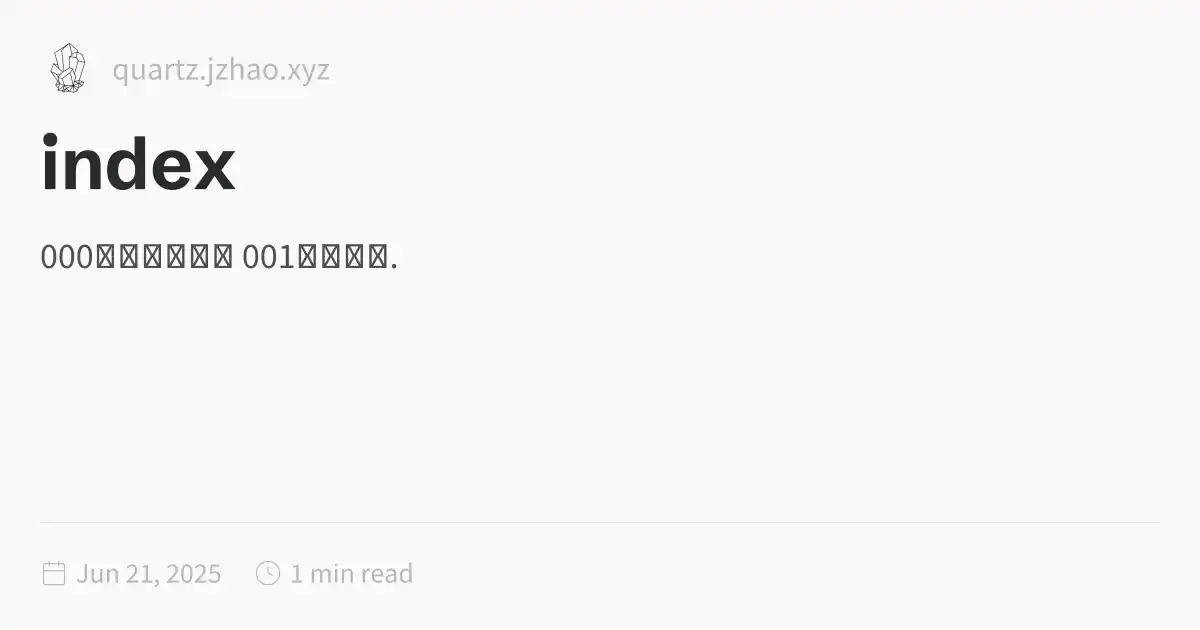
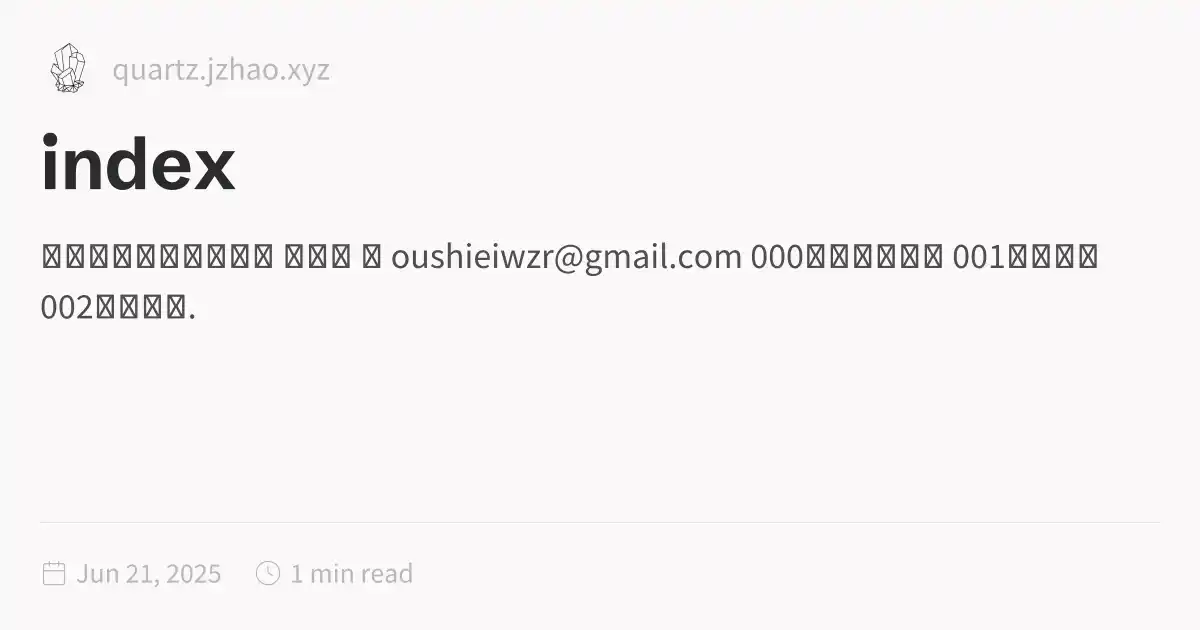
自动构建并同步到 docs: 2025-06-21 22:21:05

Changed region(s): [[0.0308, 0.3619, 0.925, 0.4524], [0.0308, 0.4524, 0.1542, 0.5127]]

diff --git a/docs/index.html b/docs/index.html
@@ -1,5 +1,5 @@
 <!DOCTYPE html>
-<html lang="en"><head><title>index</title><meta charset="utf-8"/><link rel="preconnect" href="https://fonts.googleapis.com"/><link rel="preconnect" href="https://fonts.gstatic.com"/><link rel="stylesheet" href="https://fonts.googleapis.com/css2?family=Schibsted Grotesk:wght@400;700&amp;family=Source Sans Pro:ital,wght@0,400;0,600;1,400;1,600&amp;family=IBM Plex Mono:wght@400;600&amp;display=swap"/><link rel="preconnect" href="https://cdnjs.cloudflare.com" crossorigin="anonymous"/><meta name="viewport" content="width=device-width, initial-scale=1.0"/><meta name="og:site_name" content="Quartz 4"/><meta property="og:title" content="index"/><meta property="og:type" content="website"/><meta name="twitter:card" content="summary_large_image"/><meta name="twitter:title" content="index"/><meta name="twitter:description" content="000プロフィール 001研究業績."/><meta property="og:description" content="000プロフィール 001研究業績."/><meta property="og:image:alt" content="000プロフィール 001研究業績."/><meta property="twitter:domain" content="quartz.jzhao.xyz"/><meta property="og:url" content="https://quartz.jzhao.xyz/index"/><meta property="twitter:url" content="https://quartz.jzhao.xyz/index"/><link rel="icon" href="./static/icon.png"/><meta name="description" content="000プロフィール 001研究業績."/><meta name="generator" content="Quartz"/><link href="./index.css" rel="stylesheet" type="text/css" spa-preserve/><style>.expand-button {
+<html lang="en"><head><title>index</title><meta charset="utf-8"/><link rel="preconnect" href="https://fonts.googleapis.com"/><link rel="preconnect" href="https://fonts.gstatic.com"/><link rel="stylesheet" href="https://fonts.googleapis.com/css2?family=Schibsted Grotesk:wght@400;700&amp;family=Source Sans Pro:ital,wght@0,400;0,600;1,400;1,600&amp;family=IBM Plex Mono:wght@400;600&amp;display=swap"/><link rel="preconnect" href="https://cdnjs.cloudflare.com" crossorigin="anonymous"/><meta name="viewport" content="width=device-width, initial-scale=1.0"/><meta name="og:site_name" content="Quartz 4"/><meta property="og:title" content="index"/><meta property="og:type" content="website"/><meta name="twitter:card" content="summary_large_image"/><meta name="twitter:title" content="index"/><meta name="twitter:description" content="王子睿（オウシエイ） メール ： oushieiwzr@gmail.com 000プロフィール 001研究業績 002口頭発表."/><meta property="og:description" content="王子睿（オウシエイ） メール ： oushieiwzr@gmail.com 000プロフィール 001研究業績 002口頭発表."/><meta property="og:image:alt" content="王子睿（オウシエイ） メール ： oushieiwzr@gmail.com 000プロフィール 001研究業績 002口頭発表."/><meta property="twitter:domain" content="quartz.jzhao.xyz"/><meta property="og:url" content="https://quartz.jzhao.xyz/index"/><meta property="twitter:url" content="https://quartz.jzhao.xyz/index"/><link rel="icon" href="./static/icon.png"/><meta name="description" content="王子睿（オウシエイ） メール ： oushieiwzr@gmail.com 000プロフィール 001研究業績 002口頭発表."/><meta name="generator" content="Quartz"/><link href="./index.css" rel="stylesheet" type="text/css" spa-preserve/><style>.expand-button {
   position: absolute;
   display: flex;
   float: right;
@@ -116,8 +116,11 @@ pre:hover > .expand-button {
   padding: 0 12px;
   font-size: 14px;
 }
[1 lines of base64/hex data omitted]
-<p><a href="./001研究業績" class="internal alias" data-slug="001研究業績">001研究業績</a></p></article><hr/><div class="page-footer"></div></div><div class="right sidebar"><div class="graph"><h3>Graph View</h3><div class="graph-outer"><div class="graph-container" data-cfg="{&quot;drag&quot;:true,&quot;zoom&quot;:true,&quot;depth&quot;:1,&quot;scale&quot;:1.1,&quot;repelForce&quot;:0.5,&quot;centerForce&quot;:0.3,&quot;linkDistance&quot;:30,&quot;fontSize&quot;:0.6,&quot;opacityScale&quot;:1,&quot;showTags&quot;:true,&quot;removeTags&quot;:[],&quot;focusOnHover&quot;:false,&quot;enableRadial&quot;:false}"></div><button class="global-graph-icon" aria-label="Global Graph"><svg version="1.1" xmlns="http://www.w3.org/2000/svg" xmlns:xlink="http://www.w3.org/1999/xlink" x="0px" y="0px" viewBox="0 0 55 55" fill="currentColor" xml:space="preserve"><path d="M49,0c-3.309,0-6,2.691-6,6c0,1.035,0.263,2.009,0.726,2.86l-9.829,9.829C32.542,17.634,30.846,17,29,17
[1 lines of base64/hex data omitted]
+メール ： <a href="mailto:oushieiwzr@gmail.com" class="external">oushieiwzr@gmail.com<svg aria-hidden="true" class="external-icon" style="max-width:0.8em;max-height:0.8em;" viewBox="0 0 512 512"><path d="M320 0H288V64h32 82.7L201.4 265.4 178.7 288 224 333.3l22.6-22.6L448 109.3V192v32h64V192 32 0H480 320zM32 32H0V64 480v32H32 456h32V480 352 320H424v32 96H64V96h96 32V32H160 32z"></path></svg></a></p>
+<h2 id="000プロフィール"><a href="./000プロフィール" class="internal alias" data-slug="000プロフィール">000プロフィール</a><a role="anchor" aria-hidden="true" tabindex="-1" data-no-popover="true" href="#000プロフィール" class="internal"><svg width="18" height="18" viewBox="0 0 24 24" fill="none" stroke="currentColor" stroke-width="2" stroke-linecap="round" stroke-linejoin="round"><path d="M10 13a5 5 0 0 0 7.54.54l3-3a5 5 0 0 0-7.07-7.07l-1.72 1.71"></path><path d="M14 11a5 5 0 0 0-7.54-.54l-3 3a5 5 0 0 0 7.07 7.07l1.71-1.71"></path></svg></a></h2>
+<h3 id="001研究業績"><a href="./001研究業績" class="internal alias" data-slug="001研究業績">001研究業績</a><a role="anchor" aria-hidden="true" tabindex="-1" data-no-popover="true" href="#001研究業績" class="internal"><svg width="18" height="18" viewBox="0 0 24 24" fill="none" stroke="currentColor" stroke-width="2" stroke-linecap="round" stroke-linejoin="round"><path d="M10 13a5 5 0 0 0 7.54.54l3-3a5 5 0 0 0-7.07-7.07l-1.72 1.71"></path><path d="M14 11a5 5 0 0 0-7.54-.54l-3 3a5 5 0 0 0 7.07 7.07l1.71-1.71"></path></svg></a></h3>
+<h3 id="002口頭発表"><a href="./002口頭発表" class="internal alias" data-slug="002口頭発表">002口頭発表</a><a role="anchor" aria-hidden="true" tabindex="-1" data-no-popover="true" href="#002口頭発表" class="internal"><svg width="18" height="18" viewBox="0 0 24 24" fill="none" stroke="currentColor" stroke-width="2" stroke-linecap="round" stroke-linejoin="round"><path d="M10 13a5 5 0 0 0 7.54.54l3-3a5 5 0 0 0-7.07-7.07l-1.72 1.71"></path><path d="M14 11a5 5 0 0 0-7.54-.54l-3 3a5 5 0 0 0 7.07 7.07l1.71-1.71"></path></svg></a></h3></article><hr/><div class="page-footer"></div></div><div class="right sidebar"><div class="graph"><h3>Graph View</h3><div class="graph-outer"><div class="graph-container" data-cfg="{&quot;drag&quot;:true,&quot;zoom&quot;:true,&quot;depth&quot;:1,&quot;scale&quot;:1.1,&quot;repelForce&quot;:0.5,&quot;centerForce&quot;:0.3,&quot;linkDistance&quot;:30,&quot;fontSize&quot;:0.6,&quot;opacityScale&quot;:1,&quot;showTags&quot;:true,&quot;removeTags&quot;:[],&quot;focusOnHover&quot;:false,&quot;enableRadial&quot;:false}"></div><button class="global-graph-icon" aria-label="Global Graph"><svg version="1.1" xmlns="http://www.w3.org/2000/svg" xmlns:xlink="http://www.w3.org/1999/xlink" x="0px" y="0px" viewBox="0 0 55 55" fill="currentColor" xml:space="preserve"><path d="M49,0c-3.309,0-6,2.691-6,6c0,1.035,0.263,2.009,0.726,2.86l-9.829,9.829C32.542,17.634,30.846,17,29,17
                 s-3.542,0.634-4.898,1.688l-7.669-7.669C16.785,10.424,17,9.74,17,9c0-2.206-1.794-4-4-4S9,6.794,9,9s1.794,4,4,4
                 c0.74,0,1.424-0.215,2.019-0.567l7.669,7.669C21.634,21.458,21,23.154,21,25s0.634,3.542,1.688,4.897L10.024,42.562
                 C8.958,41.595,7.549,41,6,41c-3.309,0-6,2.691-6,6s2.691,6,6,6s6-2.691,6-6c0-1.035-0.263-2.009-0.726-2.86l12.829-12.829
@@ -127,6 +130,6 @@ pre:hover > .expand-button {
                 C46.042,11.405,47.451,12,49,12c3.309,0,6-2.691,6-6S52.309,0,49,0z M11,9c0-1.103,0.897-2,2-2s2,0.897,2,2s-0.897,2-2,2
                 S11,10.103,11,9z M6,51c-2.206,0-4-1.794-4-4s1.794-4,4-4s4,1.794,4,4S8.206,51,6,51z M33,49c0,2.206-1.794,4-4,4s-4-1.794-4-4
                 s1.794-4,4-4S33,46.794,33,49z M29,31c-3.309,0-6-2.691-6-6s2.691-6,6-6s6,2.691,6,6S32.309,31,29,31z M47,41c0,1.103-0.897,2-2,2
-                s-2-0.897-2-2s0.897-2,2-2S47,39.897,47,41z M49,10c-2.206,0-4-1.794-4-4s1.794-4,4-4s4,1.794,4,4S51.206,10,49,10z"></path></svg></button></div><div class="global-graph-outer"><div class="global-graph-container" data-cfg="{&quot;drag&quot;:true,&quot;zoom&quot;:true,&quot;depth&quot;:-1,&quot;scale&quot;:0.9,&quot;repelForce&quot;:0.5,&quot;centerForce&quot;:0.2,&quot;linkDistance&quot;:30,&quot;fontSize&quot;:0.6,&quot;opacityScale&quot;:1,&quot;showTags&quot;:true,&quot;removeTags&quot;:[],&quot;focusOnHover&quot;:true,&quot;enableRadial&quot;:true}"></div></div></div></div><footer class><p>Created with <a href="https://quartz.jzhao.xyz/">Quartz v4.5.1</a> © 2025</p><ul><li><a href="https://github.com/jackyzha0/quartz">GitHub</a></li><li><a href="https://discord.gg/cRFFHYye7t">Discord Community</a></li></ul></footer></div></div></body><script type="application/javascript">function n(){let t=this.parentElement;t.classList.toggle("is-collapsed");let e=t.getElementsByClassName("callout-content")[0];if(!e)return;let l=t.classList.contains("is-collapsed");e.style.gridTemplateRows=l?"0fr":"1fr"}function c(){let t=document.getElementsByClassName("callout is-collapsible");for(let e of t){let l=e.getElementsByClassName("callout-title")[0],s=e.getElementsByClassName("callout-content")[0];if(!l||!s)continue;l.addEventListener("click",n),window.addCleanup(()=>l.removeEventListener("click",n));let o=e.classList.contains("is-collapsed");s.style.gridTemplateRows=o?"0fr":"1fr"}}document.addEventListener("nav",c);
+                s-2-0.897-2-2s0.897-2,2-2S47,39.897,47,41z M49,10c-2.206,0-4-1.794-4-4s1.794-4,4-4s4,1.794,4,4S51.206,10,49,10z"></path></svg></button></div><div class="global-graph-outer"><div class="global-graph-container" data-cfg="{&quot;drag&quot;:true,&quot;zoom&quot;:true,&quot;depth&quot;:-1,&quot;scale&quot;:0.9,&quot;repelForce&quot;:0.5,&quot;centerForce&quot;:0.2,&quot;linkDistance&quot;:30,&quot;fontSize&quot;:0.6,&quot;opacityScale&quot;:1,&quot;showTags&quot;:true,&quot;removeTags&quot;:[],&quot;focusOnHover&quot;:true,&quot;enableRadial&quot;:true}"></div></div></div><div class="toc desktop-only"><button type="button" class="toc-header" aria-controls="toc-content" aria-expanded="true"><h3>Table of Contents</h3><svg xmlns="http://www.w3.org/2000/svg" width="24" height="24" viewBox="0 0 24 24" fill="none" stroke="currentColor" stroke-width="2" stroke-linecap="round" stroke-linejoin="round" class="fold"><polyline points="6 9 12 15 18 9"></polyline></svg></button><ul class="toc-content overflow" id="list-1"><li class="depth-0"><a href="#000プロフィール" data-for="000プロフィール">000プロフィール</a></li><li class="depth-1"><a href="#001研究業績" data-for="001研究業績">001研究業績</a></li><li class="depth-1"><a href="#002口頭発表" data-for="002口頭発表">002口頭発表</a></li><li class="overflow-end"></li></ul></div></div><footer class><p>Created with <a href="https://quartz.jzhao.xyz/">Quartz v4.5.1</a> © 2025</p><ul><li><a href="https://github.com/jackyzha0/quartz">GitHub</a></li><li><a href="https://discord.gg/cRFFHYye7t">Discord Community</a></li></ul></footer></div></div></body><script type="application/javascript">function n(){let t=this.parentElement;t.classList.toggle("is-collapsed");let e=t.getElementsByClassName("callout-content")[0];if(!e)return;let l=t.classList.contains("is-collapsed");e.style.gridTemplateRows=l?"0fr":"1fr"}function c(){let t=document.getElementsByClassName("callout is-collapsible");for(let e of t){let l=e.getElementsByClassName("callout-title")[0],s=e.getElementsByClassName("callout-content")[0];if(!l||!s)continue;l.addEventListener("click",n),window.addCleanup(()=>l.removeEventListener("click",n));let o=e.classList.contains("is-collapsed");s.style.gridTemplateRows=o?"0fr":"1fr"}}document.addEventListener("nav",c);
 </script><script type="module">function f(i,e){if(!i)return;function r(o){o.target===this&&(o.preventDefault(),o.stopPropagation(),e())}function t(o){o.key.startsWith("Esc")&&(o.preventDefault(),e())}i?.addEventListener("click",r),window.addCleanup(()=>i?.removeEventListener("click",r)),document.addEventListener("keydown",t),window.addCleanup(()=>document.removeEventListener("keydown",t))}function y(i){for(;i.firstChild;)i.removeChild(i.firstChild)}var h=class{constructor(e,r){this.container=e;this.content=r;this.setupEventListeners(),this.setupNavigationControls(),this.resetTransform()}isDragging=!1;startPan={x:0,y:0};currentPan={x:0,y:0};scale=1;MIN_SCALE=.5;MAX_SCALE=3;cleanups=[];setupEventListeners(){let e=this.onMouseDown.bind(this),r=this.onMouseMove.bind(this),t=this.onMouseUp.bind(this),o=this.resetTransform.bind(this);this.container.addEventListener("mousedown",e),document.addEventListener("mousemove",r),document.addEventListener("mouseup",t),window.addEventListener("resize",o),this.cleanups.push(()=>this.container.removeEventListener("mousedown",e),()=>document.removeEventListener("mousemove",r),()=>document.removeEventListener("mouseup",t),()=>window.removeEventListener("resize",o))}cleanup(){for(let e of this.cleanups)e()}setupNavigationControls(){let e=document.createElement("div");e.className="mermaid-controls";let r=this.createButton("+",()=>this.zoom(.1)),t=this.createButton("-",()=>this.zoom(-.1)),o=this.createButton("Reset",()=>this.resetTransform());e.appendChild(t),e.appendChild(o),e.appendChild(r),this.container.appendChild(e)}createButton(e,r){let t=document.createElement("button");return t.textContent=e,t.className="mermaid-control-button",t.addEventListener("click",r),window.addCleanup(()=>t.removeEventListener("click",r)),t}onMouseDown(e){e.button===0&&(this.isDragging=!0,this.startPan={x:e.clientX-this.currentPan.x,y:e.clientY-this.currentPan.y},this.container.style.cursor="grabbing")}onMouseMove(e){this.isDragging&&(e.preventDefault(),this.currentPan={x:e.clientX-this.startPan.x,y:e.clientY-this.startPan.y},this.updateTransform())}onMouseUp(){this.isDragging=!1,this.container.style.cursor="grab"}zoom(e){let r=Math.min(Math.max(this.scale+e,this.MIN_SCALE),this.MAX_SCALE),t=this.content.getBoundingClientRect(),o=t.width/2,n=t.height/2,c=r-this.scale;this.currentPan.x-=o*c,this.currentPan.y-=n*c,this.scale=r,this.updateTransform()}updateTransform(){this.content.style.transform=`translate(${this.currentPan.x}px, ${this.currentPan.y}px) scale(${this.scale})`}resetTransform(){this.scale=1;let e=this.content.querySelector("svg");this.currentPan={x:e.getBoundingClientRect().width/2,y:e.getBoundingClientRect().height/2},this.updateTransform()}},C=["--secondary","--tertiary","--gray","--light","--lightgray","--highlight","--dark","--darkgray","--codeFont"],E;document.addEventListener("nav",async()=>{let e=document.querySelector(".center").querySelectorAll("code.mermaid");if(e.length===0)return;E||=await import("https://cdnjs.cloudflare.com/ajax/libs/mermaid/11.4.0/mermaid.esm.min.mjs");let r=E.default,t=new WeakMap;for(let n of e)t.set(n,n.innerText);async function o(){for(let s of e){s.removeAttribute("data-processed");let a=t.get(s);a&&(s.innerHTML=a)}let n=C.reduce((s,a)=>(s[a]=window.getComputedStyle(document.documentElement).getPropertyValue(a),s),{}),c=document.documentElement.getAttribute("saved-theme")==="dark";r.initialize({startOnLoad:!1,securityLevel:"loose",theme:c?"dark":"base",themeVariables:{fontFamily:n["--codeFont"],primaryColor:n["--light"],primaryTextColor:n["--darkgray"],primaryBorderColor:n["--tertiary"],lineColor:n["--darkgray"],secondaryColor:n["--secondary"],tertiaryColor:n["--tertiary"],clusterBkg:n["--light"],edgeLabelBackground:n["--highlight"]}}),await r.run({nodes:e})}await o(),document.addEventListener("themechange",o),window.addCleanup(()=>document.removeEventListener("themechange",o));for(let n=0;n<e.length;n++){let v=function(){let g=l.querySelector("#mermaid-space"),m=l.querySelector(".mermaid-content");if(!m)return;y(m);let w=c.querySelector("svg").cloneNode(!0);m.appendChild(w),l.classList.add("active"),g.style.cursor="grab",u=new h(g,m)},M=function(){l.classList.remove("active"),u?.cleanup(),u=null},c=e[n],s=c.parentElement,a=s.querySelector(".clipboard-button"),d=s.querySelector(".expand-button"),p=window.getComputedStyle(a),L=a.offsetWidth+parseFloat(p.marginLeft||"0")+parseFloat(p.marginRight||"0");d.style.right=`calc(${L}px + 0.3rem)`,s.prepend(d);let l=s.querySelector("#mermaid-container");if(!l)return;let u=null;d.addEventListener("click",v),f(l,M),window.addCleanup(()=>{u?.cleanup(),d.removeEventListener("click",v)})}});
 </script><script src="https://cdn.jsdelivr.net/npm/katex@0.16.11/dist/contrib/copy-tex.min.js" type="application/javascript"></script><script src="./postscript.js" type="module"></script></html>

diff --git a/docs/000プロフィール.html b/docs/000プロフィール.html
@@ -1,5 +1,5 @@
 <!DOCTYPE html>
-<html lang="en"><head><title>000プロフィール</title><meta charset="utf-8"/><link rel="preconnect" href="https://fonts.googleapis.com"/><link rel="preconnect" href="https://fonts.gstatic.com"/><link rel="stylesheet" href="https://fonts.googleapis.com/css2?family=Schibsted Grotesk:wght@400;700&amp;family=Source Sans Pro:ital,wght@0,400;0,600;1,400;1,600&amp;family=IBM Plex Mono:wght@400;600&amp;display=swap"/><link rel="preconnect" href="https://cdnjs.cloudflare.com" crossorigin="anonymous"/><meta name="viewport" content="width=device-width, initial-scale=1.0"/><meta name="og:site_name" content="Quartz 4"/><meta property="og:title" content="000プロフィール"/><meta property="og:type" content="website"/><meta name="twitter:card" content="summary_large_image"/><meta name="twitter:title" content="000プロフィール"/><meta name="twitter:description" content="履歴 PDを目指している 現在、北京語言大学の博士課程に在学中(2026)。 広西大学修士課程修了 (~2023) 博論 博論は『紅楼夢』の日本語訳に関する既存の人文学の知見を中心に計量文体学の手法で再検証・新しい示唆を与えようとするものである。 研究分野 コーパス学・ デジタルアーカイブとTEIの応用 非常勤歴 中国人民大学数字人文研究院 学生研究员（2024-2025）Student Researcher, Renmin University of China, Academy of Digital Humanities 日本デジタルヒューマニティーズの最新学術情報を中国に紹介・翻訳 北京..."/><meta property="og:description" content="履歴 PDを目指している 現在、北京語言大学の博士課程に在学中(2026)。 広西大学修士課程修了 (~2023) 博論 博論は『紅楼夢』の日本語訳に関する既存の人文学の知見を中心に計量文体学の手法で再検証・新しい示唆を与えようとするものである。 研究分野 コーパス学・ デジタルアーカイブとTEIの応用 非常勤歴 中国人民大学数字人文研究院 学生研究员（2024-2025）Student Researcher, Renmin University of China, Academy of Digital Humanities 日本デジタルヒューマニティーズの最新学術情報を中国に紹介・翻訳 北京..."/><meta property="og:image:alt" content="履歴 PDを目指している 現在、北京語言大学の博士課程に在学中(2026)。 広西大学修士課程修了 (~2023) 博論 博論は『紅楼夢』の日本語訳に関する既存の人文学の知見を中心に計量文体学の手法で再検証・新しい示唆を与えようとするものである。 研究分野 コーパス学・ デジタルアーカイブとTEIの応用 非常勤歴 中国人民大学数字人文研究院 学生研究员（2024-2025）Student Researcher, Renmin University of China, Academy of Digital Humanities 日本デジタルヒューマニティーズの最新学術情報を中国に紹介・翻訳 北京..."/><meta property="twitter:domain" content="quartz.jzhao.xyz"/><meta property="og:url" content="https://quartz.jzhao.xyz/000プロフィール"/><meta property="twitter:url" content="https://quartz.jzhao.xyz/000プロフィール"/><link rel="icon" href="./static/icon.png"/><meta name="description" content="履歴 PDを目指している 現在、北京語言大学の博士課程に在学中(2026)。 広西大学修士課程修了 (~2023) 博論 博論は『紅楼夢』の日本語訳に関する既存の人文学の知見を中心に計量文体学の手法で再検証・新しい示唆を与えようとするものである。 研究分野 コーパス学・ デジタルアーカイブとTEIの応用 非常勤歴 中国人民大学数字人文研究院 学生研究员（2024-2025）Student Researcher, Renmin University of China, Academy of Digital Humanities 日本デジタルヒューマニティーズの最新学術情報を中国に紹介・翻訳 北京..."/><meta name="generator" content="Quartz"/><link href="./index.css" rel="stylesheet" type="text/css" spa-preserve/><style>.expand-button {
+<html lang="en"><head><title>000プロフィール</title><meta charset="utf-8"/><link rel="preconnect" href="https://fonts.googleapis.com"/><link rel="preconnect" href="https://fonts.gstatic.com"/><link rel="stylesheet" href="https://fonts.googleapis.com/css2?family=Schibsted Grotesk:wght@400;700&amp;family=Source Sans Pro:ital,wght@0,400;0,600;1,400;1,600&amp;family=IBM Plex Mono:wght@400;600&amp;display=swap"/><link rel="preconnect" href="https://cdnjs.cloudflare.com" crossorigin="anonymous"/><meta name="viewport" content="width=device-width, initial-scale=1.0"/><meta name="og:site_name" content="Quartz 4"/><meta property="og:title" content="000プロフィール"/><meta property="og:type" content="website"/><meta name="twitter:card" content="summary_large_image"/><meta name="twitter:title" content="000プロフィール"/><meta name="twitter:description" content="履歴 PDを目指している 現在、北京語言大学の博士課程に在学中(2026)。 広西大学修士課程修了 (~2023) 博論 博論は『紅楼夢』の日本語訳に関する既存の人文学の知見を中心に計量文体学の手法で再検証・新しい示唆を与えようとするものである。 研究分野 コーパス学・ デジタルアーカイブとTEIの応用 R言語による人文学研究の定量分析・可視化 非常勤歴 中国人民大学数字人文研究院 学生研究员（2024-2025）Student Researcher, Renmin University of China, Academy of Digital Humanities 日本デジタルヒューマニティ..."/><meta property="og:description" content="履歴 PDを目指している 現在、北京語言大学の博士課程に在学中(2026)。 広西大学修士課程修了 (~2023) 博論 博論は『紅楼夢』の日本語訳に関する既存の人文学の知見を中心に計量文体学の手法で再検証・新しい示唆を与えようとするものである。 研究分野 コーパス学・ デジタルアーカイブとTEIの応用 R言語による人文学研究の定量分析・可視化 非常勤歴 中国人民大学数字人文研究院 学生研究员（2024-2025）Student Researcher, Renmin University of China, Academy of Digital Humanities 日本デジタルヒューマニティ..."/><meta property="og:image:alt" content="履歴 PDを目指している 現在、北京語言大学の博士課程に在学中(2026)。 広西大学修士課程修了 (~2023) 博論 博論は『紅楼夢』の日本語訳に関する既存の人文学の知見を中心に計量文体学の手法で再検証・新しい示唆を与えようとするものである。 研究分野 コーパス学・ デジタルアーカイブとTEIの応用 R言語による人文学研究の定量分析・可視化 非常勤歴 中国人民大学数字人文研究院 学生研究员（2024-2025）Student Researcher, Renmin University of China, Academy of Digital Humanities 日本デジタルヒューマニティ..."/><meta property="twitter:domain" content="quartz.jzhao.xyz"/><meta property="og:url" content="https://quartz.jzhao.xyz/000プロフィール"/><meta property="twitter:url" content="https://quartz.jzhao.xyz/000プロフィール"/><link rel="icon" href="./static/icon.png"/><meta name="description" content="履歴 PDを目指している 現在、北京語言大学の博士課程に在学中(2026)。 広西大学修士課程修了 (~2023) 博論 博論は『紅楼夢』の日本語訳に関する既存の人文学の知見を中心に計量文体学の手法で再検証・新しい示唆を与えようとするものである。 研究分野 コーパス学・ デジタルアーカイブとTEIの応用 R言語による人文学研究の定量分析・可視化 非常勤歴 中国人民大学数字人文研究院 学生研究员（2024-2025）Student Researcher, Renmin University of China, Academy of Digital Humanities 日本デジタルヒューマニティ..."/><meta name="generator" content="Quartz"/><link href="./index.css" rel="stylesheet" type="text/css" spa-preserve/><style>.expand-button {
   position: absolute;
   display: flex;
   float: right;
@@ -116,7 +116,7 @@ pre:hover > .expand-button {
   padding: 0 12px;
   font-size: 14px;
 }
[2 lines of base64/hex data omitted]
 <ul>
 <li>PDを目指している</li>
 <li>現在、<strong>北京語言大学の博士課程に在学中(2026)。</strong></li>
@@ -126,10 +126,9 @@ pre:hover > .expand-button {
 <p>博論は『紅楼夢』の日本語訳に関する既存の人文学の知見を中心に計量文体学の手法で再検証・新しい示唆を与えようとするものである。</p>
 <h2 id="研究分野">研究分野<a role="anchor" aria-hidden="true" tabindex="-1" data-no-popover="true" href="#研究分野" class="internal"><svg width="18" height="18" viewBox="0 0 24 24" fill="none" stroke="currentColor" stroke-width="2" stroke-linecap="round" stroke-linejoin="round"><path d="M10 13a5 5 0 0 0 7.54.54l3-3a5 5 0 0 0-7.07-7.07l-1.72 1.71"></path><path d="M14 11a5 5 0 0 0-7.54-.54l-3 3a5 5 0 0 0 7.07 7.07l1.71-1.71"></path></svg></a></h2>
 <ul>
-<li></li>
 <li>コーパス学・</li>
 <li>デジタルアーカイブとTEIの応用</li>
-<li></li>
+<li>R言語による人文学研究の定量分析・可視化</li>
 </ul>
 <h2 id="非常勤歴">非常勤歴<a role="anchor" aria-hidden="true" tabindex="-1" data-no-popover="true" href="#非常勤歴" class="internal"><svg width="18" height="18" viewBox="0 0 24 24" fill="none" stroke="currentColor" stroke-width="2" stroke-linecap="round" stroke-linejoin="round"><path d="M10 13a5 5 0 0 0 7.54.54l3-3a5 5 0 0 0-7.07-7.07l-1.72 1.71"></path><path d="M14 11a5 5 0 0 0-7.54-.54l-3 3a5 5 0 0 0 7.07 7.07l1.71-1.71"></path></svg></a></h2>
 <ul>

diff --git a/docs/001研究業績.html b/docs/001研究業績.html
@@ -116,7 +116,7 @@ pre:hover > .expand-button {
   padding: 0 12px;
   font-size: 14px;
 }
[2 lines of base64/hex data omitted]
 <p>知网（CNKI）に契約を結んでいる方は、<a href="https://kns.cnki.net/kcms2/author/detail?v=C4JADW50D8sqjoVJsImXjAXWcz9kMCKp6vwPz7eJCceZMhAt7zLSaUhL8rB-_icODcsy1D7Ze46XkVA8FAYWEyPTOQc8Fdp12-lFVzYet6YVKMvxDvP-6RrKAoYHIxlc&amp;uniplatform=NZKPT&amp;language=CHS" class="external">研究者ページ<svg aria-hidden="true" class="external-icon" style="max-width:0.8em;max-height:0.8em;" viewBox="0 0 512 512"><path d="M320 0H288V64h32 82.7L201.4 265.4 178.7 288 224 333.3l22.6-22.6L448 109.3V192v32h64V192 32 0H480 320zM32 32H0V64 480v32H32 456h32V480 352 320H424v32 96H64V96h96 32V32H160 32z"></path></svg></a>へお越しください。</p>
 <h2 id="執筆査読中">執筆査読中<a role="anchor" aria-hidden="true" tabindex="-1" data-no-popover="true" href="#執筆査読中" class="internal"><svg width="18" height="18" viewBox="0 0 24 24" fill="none" stroke="currentColor" stroke-width="2" stroke-linecap="round" stroke-linejoin="round"><path d="M10 13a5 5 0 0 0 7.54.54l3-3a5 5 0 0 0-7.07-7.07l-1.72 1.71"></path><path d="M14 11a5 5 0 0 0-7.54-.54l-3 3a5 5 0 0 0 7.07 7.07l1.71-1.71"></path></svg></a></h2>
 <ul>

diff --git a/docs/002口頭発表.html b/docs/002口頭発表.html
@@ -135,6 +135,6 @@ pre:hover > .expand-button {
                 C46.042,11.405,47.451,12,49,12c3.309,0,6-2.691,6-6S52.309,0,49,0z M11,9c0-1.103,0.897-2,2-2s2,0.897,2,2s-0.897,2-2,2
                 S11,10.103,11,9z M6,51c-2.206,0-4-1.794-4-4s1.794-4,4-4s4,1.794,4,4S8.206,51,6,51z M33,49c0,2.206-1.794,4-4,4s-4-1.794-4-4
                 s1.794-4,4-4S33,46.794,33,49z M29,31c-3.309,0-6-2.691-6-6s2.691-6,6-6s6,2.691,6,6S32.309,31,29,31z M47,41c0,1.103-0.897,2-2,2
-                s-2-0.897-2-2s0.897-2,2-2S47,39.897,47,41z M49,10c-2.206,0-4-1.794-4-4s1.794-4,4-4s4,1.794,4,4S51.206,10,49,10z"></path></svg></button></div><div class="global-graph-outer"><div class="global-graph-container" data-cfg="{&quot;drag&quot;:true,&quot;zoom&quot;:true,&quot;depth&quot;:-1,&quot;scale&quot;:0.9,&quot;repelForce&quot;:0.5,&quot;centerForce&quot;:0.2,&quot;linkDistance&quot;:30,&quot;fontSize&quot;:0.6,&quot;opacityScale&quot;:1,&quot;showTags&quot;:true,&quot;removeTags&quot;:[],&quot;focusOnHover&quot;:true,&quot;enableRadial&quot;:true}"></div></div></div><div class="toc desktop-only"><button type="button" class="toc-header" aria-controls="toc-content" aria-expanded="true"><h3>Table of Contents</h3><svg xmlns="http://www.w3.org/2000/svg" width="24" height="24" viewBox="0 0 24 24" fill="none" stroke="currentColor" stroke-width="2" stroke-linecap="round" stroke-linejoin="round" class="fold"><polyline points="6 9 12 15 18 9"></polyline></svg></button><ul class="toc-content overflow" id="list-1"><li class="depth-0"><a href="#2025年" data-for="2025年">2025年</a></li><li class="depth-0"><a href="#2024年" data-for="2024年">2024年</a></li><li class="overflow-end"></li></ul></div><div class="backlinks"><h3>Backlinks</h3><ul id="list-2" class="overflow"><li><a href="./000プロフィール" class="internal">000プロフィール</a></li><li class="overflow-end"></li></ul></div></div><footer class><p>Created with <a href="https://quartz.jzhao.xyz/">Quartz v4.5.1</a> © 2025</p><ul><li><a href="https://github.com/jackyzha0/quartz">GitHub</a></li><li><a href="https://discord.gg/cRFFHYye7t">Discord Community</a></li></ul></footer></div></div></body><script type="application/javascript">function n(){let t=this.parentElement;t.classList.toggle("is-collapsed");let e=t.getElementsByClassName("callout-content")[0];if(!e)return;let l=t.classList.contains("is-collapsed");e.style.gridTemplateRows=l?"0fr":"1fr"}function c(){let t=document.getElementsByClassName("callout is-collapsible");for(let e of t){let l=e.getElementsByClassName("callout-title")[0],s=e.getElementsByClassName("callout-content")[0];if(!l||!s)continue;l.addEventListener("click",n),window.addCleanup(()=>l.removeEventListener("click",n));let o=e.classList.contains("is-collapsed");s.style.gridTemplateRows=o?"0fr":"1fr"}}document.addEventListener("nav",c);
+                s-2-0.897-2-2s0.897-2,2-2S47,39.897,47,41z M49,10c-2.206,0-4-1.794-4-4s1.794-4,4-4s4,1.794,4,4S51.206,10,49,10z"></path></svg></button></div><div class="global-graph-outer"><div class="global-graph-container" data-cfg="{&quot;drag&quot;:true,&quot;zoom&quot;:true,&quot;depth&quot;:-1,&quot;scale&quot;:0.9,&quot;repelForce&quot;:0.5,&quot;centerForce&quot;:0.2,&quot;linkDistance&quot;:30,&quot;fontSize&quot;:0.6,&quot;opacityScale&quot;:1,&quot;showTags&quot;:true,&quot;removeTags&quot;:[],&quot;focusOnHover&quot;:true,&quot;enableRadial&quot;:true}"></div></div></div><div class="toc desktop-only"><button type="button" class="toc-header" aria-controls="toc-content" aria-expanded="true"><h3>Table of Contents</h3><svg xmlns="http://www.w3.org/2000/svg" width="24" height="24" viewBox="0 0 24 24" fill="none" stroke="currentColor" stroke-width="2" stroke-linecap="round" stroke-linejoin="round" class="fold"><polyline points="6 9 12 15 18 9"></polyline></svg></button><ul class="toc-content overflow" id="list-1"><li class="depth-0"><a href="#2025年" data-for="2025年">2025年</a></li><li class="depth-0"><a href="#2024年" data-for="2024年">2024年</a></li><li class="overflow-end"></li></ul></div><div class="backlinks"><h3>Backlinks</h3><ul id="list-2" class="overflow"><li><a href="./000プロフィール" class="internal">000プロフィール</a></li><li><a href="./" class="internal">index</a></li><li class="overflow-end"></li></ul></div></div><footer class><p>Created with <a href="https://quartz.jzhao.xyz/">Quartz v4.5.1</a> © 2025</p><ul><li><a href="https://github.com/jackyzha0/quartz">GitHub</a></li><li><a href="https://discord.gg/cRFFHYye7t">Discord Community</a></li></ul></footer></div></div></body><script type="application/javascript">function n(){let t=this.parentElement;t.classList.toggle("is-collapsed");let e=t.getElementsByClassName("callout-content")[0];if(!e)return;let l=t.classList.contains("is-collapsed");e.style.gridTemplateRows=l?"0fr":"1fr"}function c(){let t=document.getElementsByClassName("callout is-collapsible");for(let e of t){let l=e.getElementsByClassName("callout-title")[0],s=e.getElementsByClassName("callout-content")[0];if(!l||!s)continue;l.addEventListener("click",n),window.addCleanup(()=>l.removeEventListener("click",n));let o=e.classList.contains("is-collapsed");s.style.gridTemplateRows=o?"0fr":"1fr"}}document.addEventListener("nav",c);
 </script><script type="module">function f(i,e){if(!i)return;function r(o){o.target===this&&(o.preventDefault(),o.stopPropagation(),e())}function t(o){o.key.startsWith("Esc")&&(o.preventDefault(),e())}i?.addEventListener("click",r),window.addCleanup(()=>i?.removeEventListener("click",r)),document.addEventListener("keydown",t),window.addCleanup(()=>document.removeEventListener("keydown",t))}function y(i){for(;i.firstChild;)i.removeChild(i.firstChild)}var h=class{constructor(e,r){this.container=e;this.content=r;this.setupEventListeners(),this.setupNavigationControls(),this.resetTransform()}isDragging=!1;startPan={x:0,y:0};currentPan={x:0,y:0};scale=1;MIN_SCALE=.5;MAX_SCALE=3;cleanups=[];setupEventListeners(){let e=this.onMouseDown.bind(this),r=this.onMouseMove.bind(this),t=this.onMouseUp.bind(this),o=this.resetTransform.bind(this);this.container.addEventListener("mousedown",e),document.addEventListener("mousemove",r),document.addEventListener("mouseup",t),window.addEventListener("resize",o),this.cleanups.push(()=>this.container.removeEventListener("mousedown",e),()=>document.removeEventListener("mousemove",r),()=>document.removeEventListener("mouseup",t),()=>window.removeEventListener("resize",o))}cleanup(){for(let e of this.cleanups)e()}setupNavigationControls(){let e=document.createElement("div");e.className="mermaid-controls";let r=this.createButton("+",()=>this.zoom(.1)),t=this.createButton("-",()=>this.zoom(-.1)),o=this.createButton("Reset",()=>this.resetTransform());e.appendChild(t),e.appendChild(o),e.appendChild(r),this.container.appendChild(e)}createButton(e,r){let t=document.createElement("button");return t.textContent=e,t.className="mermaid-control-button",t.addEventListener("click",r),window.addCleanup(()=>t.removeEventListener("click",r)),t}onMouseDown(e){e.button===0&&(this.isDragging=!0,this.startPan={x:e.clientX-this.currentPan.x,y:e.clientY-this.currentPan.y},this.container.style.cursor="grabbing")}onMouseMove(e){this.isDragging&&(e.preventDefault(),this.currentPan={x:e.clientX-this.startPan.x,y:e.clientY-this.startPan.y},this.updateTransform())}onMouseUp(){this.isDragging=!1,this.container.style.cursor="grab"}zoom(e){let r=Math.min(Math.max(this.scale+e,this.MIN_SCALE),this.MAX_SCALE),t=this.content.getBoundingClientRect(),o=t.width/2,n=t.height/2,c=r-this.scale;this.currentPan.x-=o*c,this.currentPan.y-=n*c,this.scale=r,this.updateTransform()}updateTransform(){this.content.style.transform=`translate(${this.currentPan.x}px, ${this.currentPan.y}px) scale(${this.scale})`}resetTransform(){this.scale=1;let e=this.content.querySelector("svg");this.currentPan={x:e.getBoundingClientRect().width/2,y:e.getBoundingClientRect().height/2},this.updateTransform()}},C=["--secondary","--tertiary","--gray","--light","--lightgray","--highlight","--dark","--darkgray","--codeFont"],E;document.addEventListener("nav",async()=>{let e=document.querySelector(".center").querySelectorAll("code.mermaid");if(e.length===0)return;E||=await import("https://cdnjs.cloudflare.com/ajax/libs/mermaid/11.4.0/mermaid.esm.min.mjs");let r=E.default,t=new WeakMap;for(let n of e)t.set(n,n.innerText);async function o(){for(let s of e){s.removeAttribute("data-processed");let a=t.get(s);a&&(s.innerHTML=a)}let n=C.reduce((s,a)=>(s[a]=window.getComputedStyle(document.documentElement).getPropertyValue(a),s),{}),c=document.documentElement.getAttribute("saved-theme")==="dark";r.initialize({startOnLoad:!1,securityLevel:"loose",theme:c?"dark":"base",themeVariables:{fontFamily:n["--codeFont"],primaryColor:n["--light"],primaryTextColor:n["--darkgray"],primaryBorderColor:n["--tertiary"],lineColor:n["--darkgray"],secondaryColor:n["--secondary"],tertiaryColor:n["--tertiary"],clusterBkg:n["--light"],edgeLabelBackground:n["--highlight"]}}),await r.run({nodes:e})}await o(),document.addEventListener("themechange",o),window.addCleanup(()=>document.removeEventListener("themechange",o));for(let n=0;n<e.length;n++){let v=function(){let g=l.querySelector("#mermaid-space"),m=l.querySelector(".mermaid-content");if(!m)return;y(m);let w=c.querySelector("svg").cloneNode(!0);m.appendChild(w),l.classList.add("active"),g.style.cursor="grab",u=new h(g,m)},M=function(){l.classList.remove("active"),u?.cleanup(),u=null},c=e[n],s=c.parentElement,a=s.querySelector(".clipboard-button"),d=s.querySelector(".expand-button"),p=window.getComputedStyle(a),L=a.offsetWidth+parseFloat(p.marginLeft||"0")+parseFloat(p.marginRight||"0");d.style.right=`calc(${L}px + 0.3rem)`,s.prepend(d);let l=s.querySelector("#mermaid-container");if(!l)return;let u=null;d.addEventListener("click",v),f(l,M),window.addCleanup(()=>{u?.cleanup(),d.removeEventListener("click",v)})}});
 </script><script src="https://cdn.jsdelivr.net/npm/katex@0.16.11/dist/contrib/copy-tex.min.js" type="application/javascript"></script><script src="./postscript.js" type="module"></script></html>

diff --git a/content/000プロフィール.md b/content/000プロフィール.md
@@ -8,10 +8,10 @@
 
 博論は『紅楼夢』の日本語訳に関する既存の人文学の知見を中心に計量文体学の手法で再検証・新しい示唆を与えようとするものである。
 ## 研究分野
-- 
+
 - コーパス学・
 - デジタルアーカイブとTEIの応用
-- 
+- R言語による人文学研究の定量分析・可視化
 ## 非常勤歴
 
 - 中国人民大学数字人文研究院 学生研究员（2024-2025）Student Researcher, Renmin University of China, Academy of Digital Humanities 

diff --git a/content/index.md b/content/index.md
@@ -1,4 +1,9 @@
+王子睿（オウシエイ）
+メール ： oushieiwzr@gmail.com
 
-[[000プロフィール]]
+## [[000プロフィール]]
 
-[[001研究業績]]
+### [[001研究業績]]
+
+### [[002口頭発表]]
+
